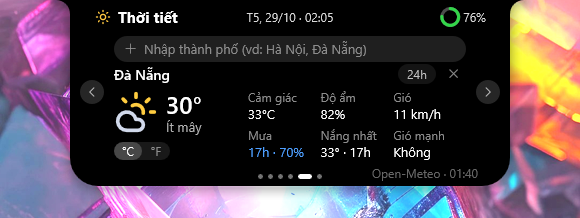
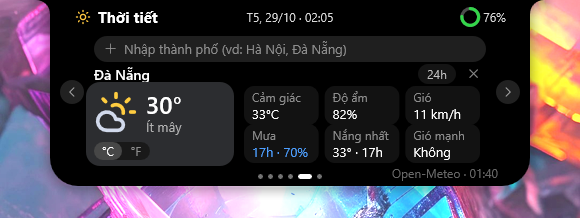
feat(weather): the Weather page is wider; the sky's picture sits on a washed card and the figures are cards

diff --git a/src/render.rs b/src/render.rs
@@ -280,6 +280,8 @@ pub fn panel_size(page: Page) -> [f32; 2] {
     match page {
         // Four task cards instead of three.
         Page::Todo | Page::Notify | Page::Health => [w, h + 40.0],
+        // Wider: room for the sky's picture and a roomier grid of figures.
+        Page::Weather => [w + 40.0, h],
         _ => [w, h],
     }
 }
@@ -305,7 +307,7 @@ const UNIT_X: f32 = 0.0;
 const UNIT_Y: f32 = 142.0;
 const UNIT_W: f32 = 28.0;
 const UNIT_H: f32 = 18.0;
-const STATS_X: f32 = 134.0;
+const STATS_X: f32 = 150.0;
 /// The grid's two rows (label on top); the 24h strip starts at the first.
 const STATS_Y: [f32; 2] = [90.0, 128.0];
 const HOURS_BTN_W: f32 = 38.0;
@@ -382,7 +384,7 @@ pub fn page_buttons(cx: f32, scale: f32, page: Page, rows: usize, scroll: usize,
     let panel_h = panel_size(page)[1];
     // Only the Music page can be wide.
     let wide = wide && page == Page::Music;
-    let w = panel_w(wide);
+    let w = panel_size(page)[0] + if wide { LYRICS_EXTRA_W } else { 0.0 };
     let left = cx / scale - w / 2.0;
     let r = |x: f32, y: f32, bw: f32, bh: f32| rect((left + x) * scale, y * scale, (left + x + bw) * scale, (y + bh) * scale);
     let mut out = Vec::new();
@@ -2446,7 +2448,12 @@ impl Renderer {
                                         text("24h", F_LABEL, hb, center, grey(if open { 1.0 } else { 0.75 }, a))?;
                                     }
                                     // Left block: the icon, the temperature beside it, the sky's words under it, the
-                                    // unit chips under the icon.
+                                    // unit chips under the icon, on a card washed with the sky's colour.
+                                    {
+                                        let (sky, _) = weather::tints(n.sky, n.day);
+                                        let hero = rect(cl - 8.0 * s, (ICON_Y - 8.0) * s, cl + (STATS_X - 10.0) * s, (UNIT_Y + UNIT_H + 6.0) * s);
+                                        rt.FillRoundedRectangle(&rounded(hero, 14.0 * s), &self.brush(color(sky.0 * 0.16 + 0.04, sky.1 * 0.16 + 0.04, sky.2 * 0.16 + 0.04, a * fade))?);
+                                    }
                                     draw_wx_icon(ic, geoms, cl, ICON_Y * s, WX_ICON * s, Some(weather::tints(n.sky, n.day)), a * fade, if current { v.page_age } else { 9.0 })?;
                                     // The big temperature, shrunk to fit before the right block when it is long
                                     // ("−128°"), turning about its left end.
@@ -2503,8 +2510,9 @@ impl Renderer {
                                         let shown = if wx.hours.is_empty() { 3 } else { 6 };
                                         for (k, (label, value, ink)) in cells.iter().enumerate().take(shown) {
                                             let (x, y) = (bl + (k % 3) as f32 * col, STATS_Y[k / 3] * s);
-                                            text(label, F_LABEL, rect(x, y, x + col - 4.0 * s, y + 15.0 * s), lead, grey(0.55, a))?;
-                                            text(value, F_BODY, rect(x, y + 15.0 * s, x + col - 4.0 * s, y + 33.0 * s), lead, *ink)?;
+                                            rt.FillRoundedRectangle(&rounded(rect(x, y - 4.0 * s, x + col - 6.0 * s, y + 35.0 * s), 10.0 * s), &self.brush(grey(0.07, a))?);
+                                            text(label, F_LABEL, rect(x + 8.0 * s, y, x + col - 8.0 * s, y + 15.0 * s), lead, grey(0.55, a))?;
+                                            text(value, F_BODY, rect(x + 8.0 * s, y + 15.0 * s, x + col - 8.0 * s, y + 33.0 * s), lead, *ink)?;
                                         }
                                     }
                                 }
